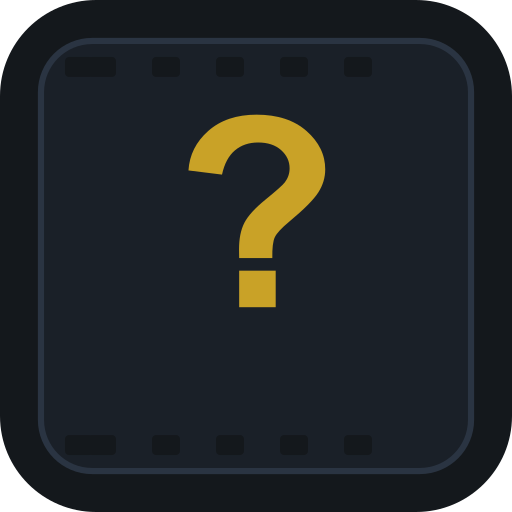
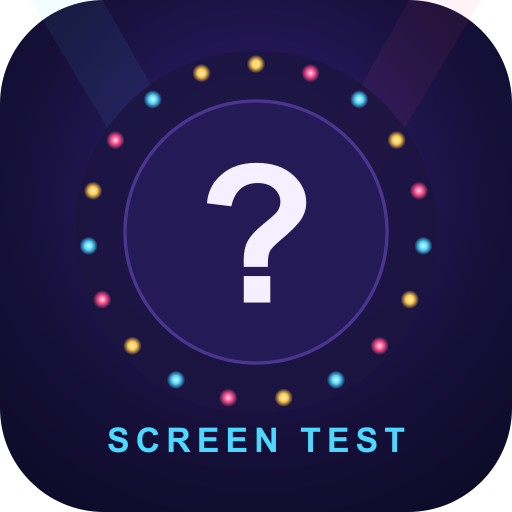
Redesign directory assets: cinema-marquee identity
New look independent of the galaxymovies palette: glowing marquee bulb
rings and frame, spotlight beams, neon pink/cyan on deep indigo. Adds a
fallback PNG for the featuring-asset slot.

Generated with [Devin](https://devin.ai)

diff --git a/README.md b/README.md
@@ -40,4 +40,4 @@ is shown in every post.
 - `npm run typecheck` / `npm test` — tsc + vitest (question-builder tests)
 - `npm run dev` — `devvit playtest` against `screen_test_dev`
 - `npm run upload` — upload a version to the Developer Portal
-- `node scripts/generate-assets.js` — regenerate the directory-listing PNGs
+- `node scripts/generate-assets.cjs` — regenerate the directory-listing PNGs
